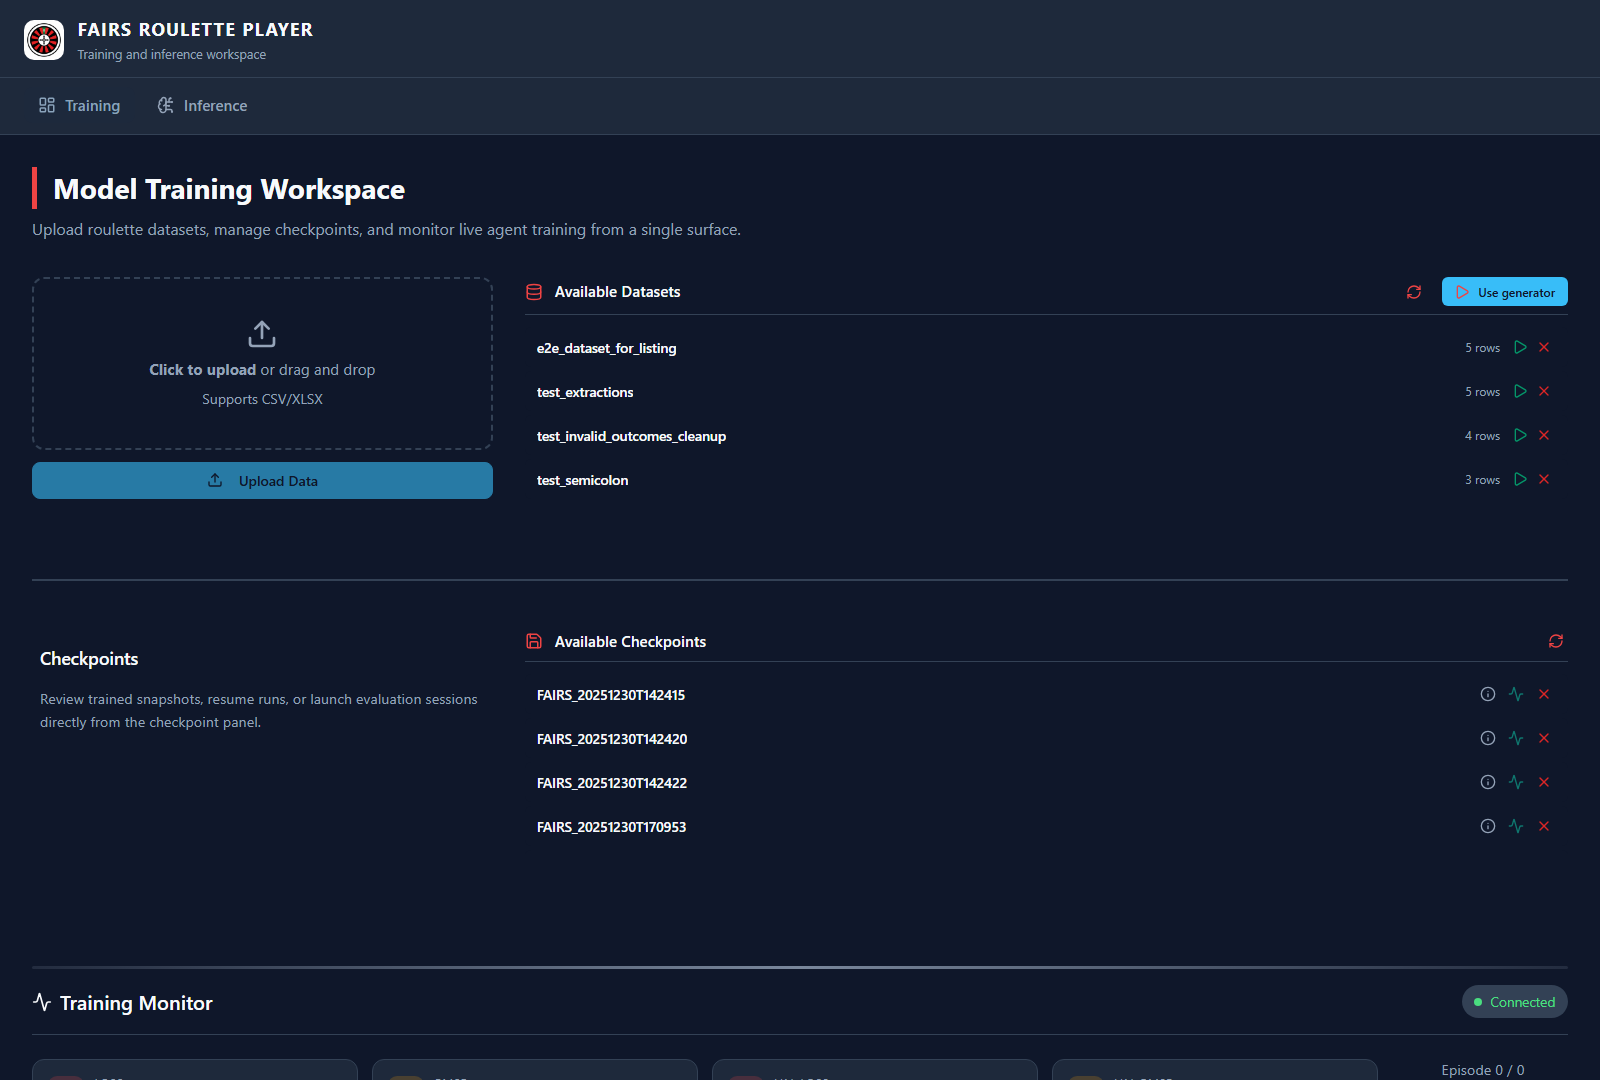
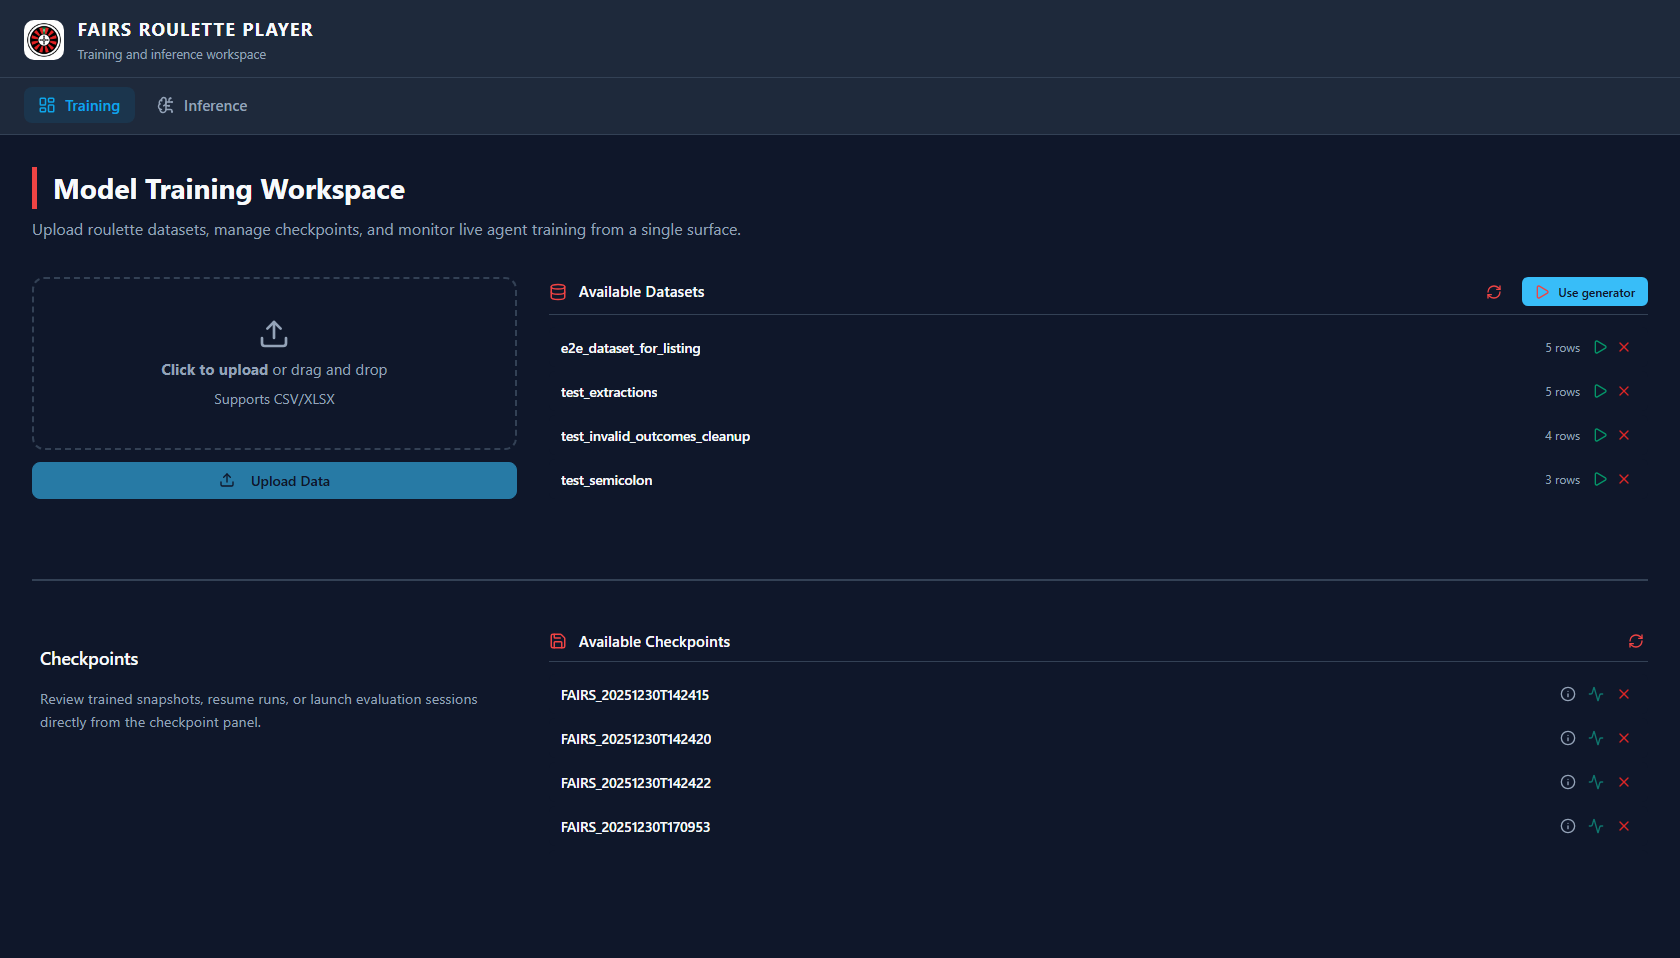
fix issues with some images

diff --git a/README.md b/README.md
@@ -179,35 +179,22 @@ The runner:
 - `runtimes`: portable Python/uv/Node.js downloaded by the Windows launcher.
 
 ## 10. Screenshots
-These documentation captures were generated from a local full-stack run with adaptive Playwright viewports.
-Capture metadata (route, files, viewport, notes) is available in `assets/figures/manifest.json`.
-
-### Landing (redirects to Training)
-![Home](assets/figures/home.png)
+Documentation captures were regenerated from a local backend (`http://127.0.0.1:5003`) and frontend (`http://127.0.0.1:8003`) run with adaptive Playwright viewports.
+Capture metadata (route, output files, viewport, notes) is available in `assets/figures/manifest.json`.
 
 ### Training Workspace
-**Overview (upper section)**
-![Training overview part 1](assets/figures/training-overview-part1.png)
+Overview:
+![Training overview](assets/figures/training-page.png)
 
-**Overview (below the fold)**
-![Training overview part 2](assets/figures/training-overview-part2.png)
-
-**Training wizard detail**
+Generator wizard:
 ![Training wizard detail](assets/figures/training-wizard-detail.png)
 
 ### Inference Workspace
 ![Inference overview](assets/figures/inference-overview.png)
 
-### Legacy Captures
-![training_page](assets/figures/training_page.png)
-![inference_page](assets/figures/inference_page.png)
-
-## 11. Additional Documentation
-- `assets/docs/PACKAGING_AND_RUNTIME_MODES.md`
-- `assets/docs/ARCHITECTURE.md`
-- `assets/docs/GUIDELINES_TESTS.md`
-
-## 12. License
+## 11. License
 This project is licensed under the MIT License. See `LICENSE` for details.
+
+
 
 
